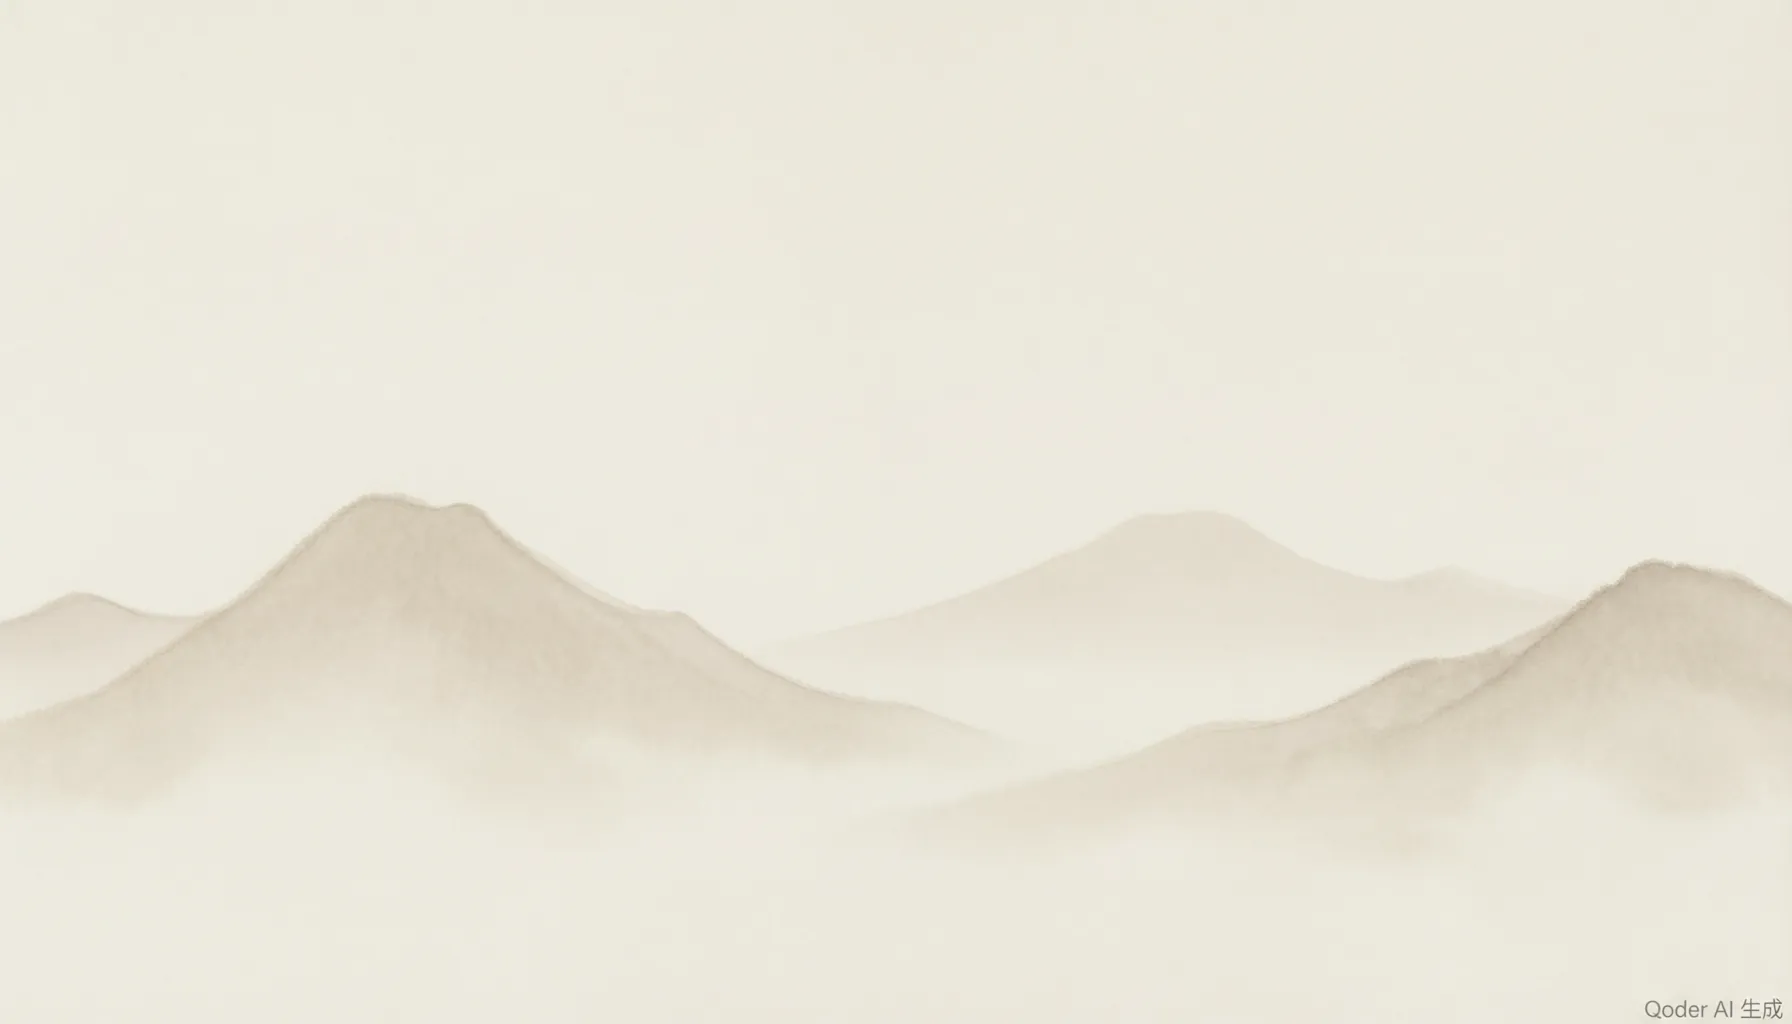
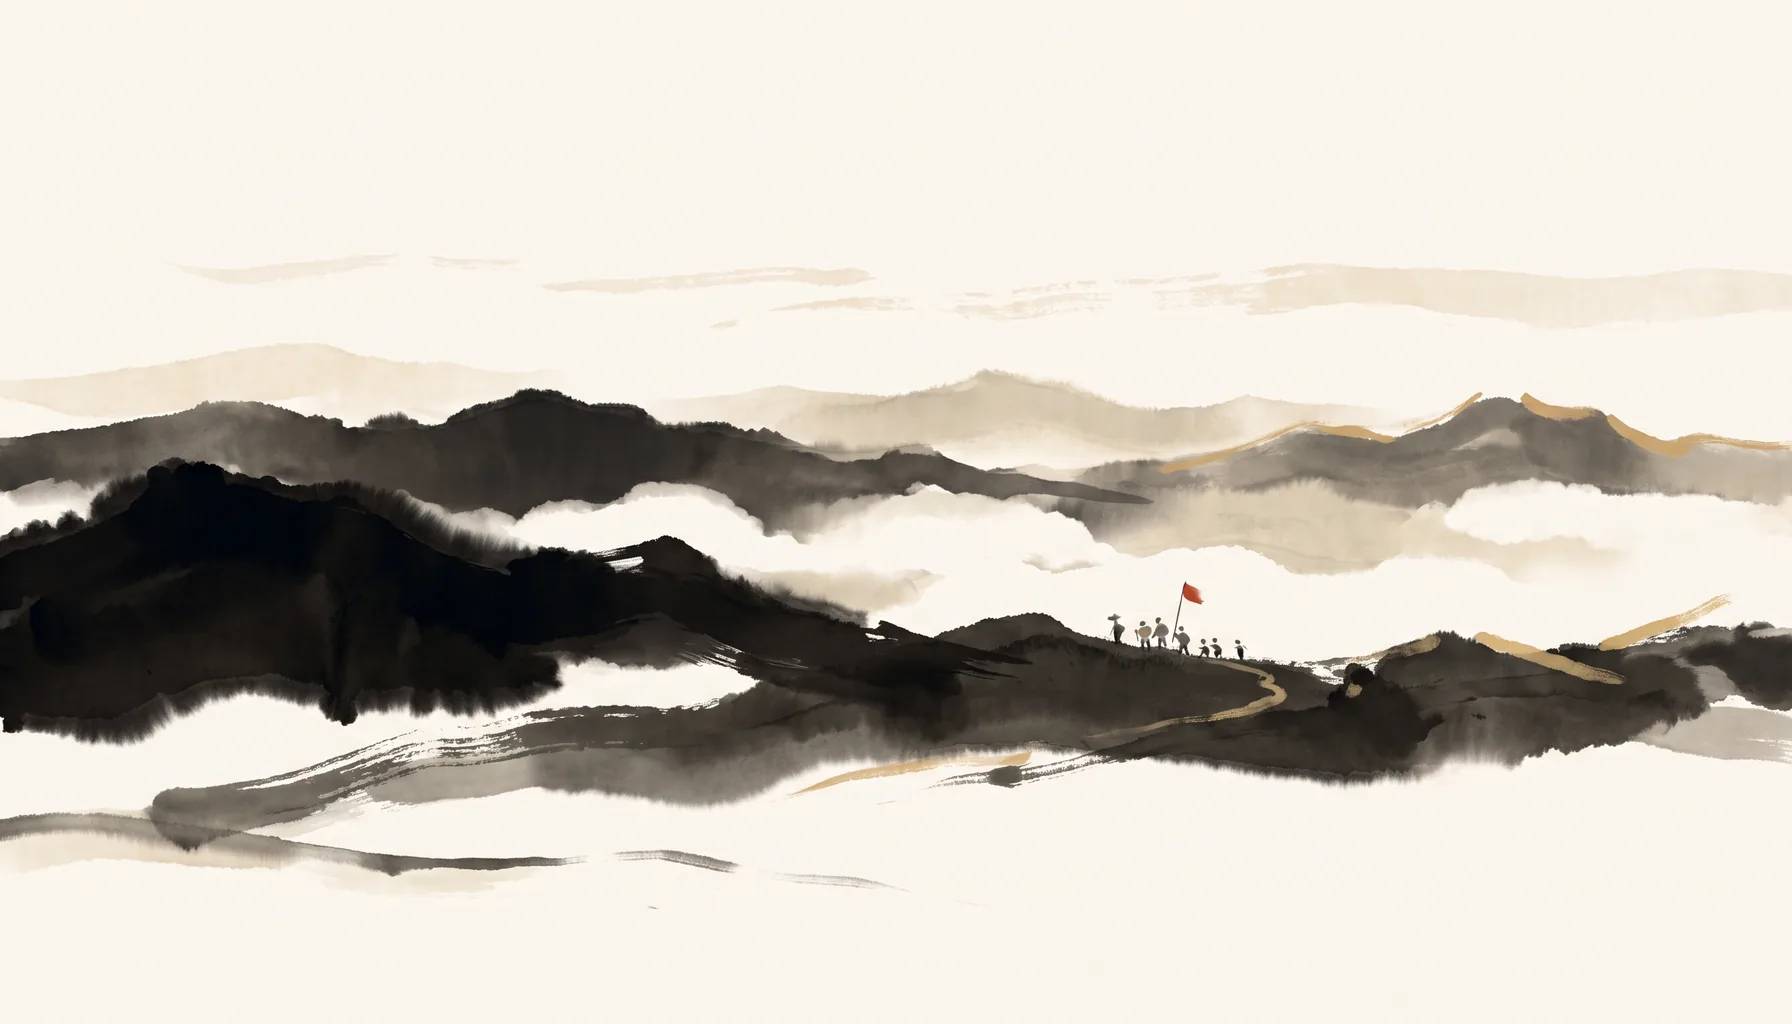
feat(w879): 暗底/夜读适配水墨素材批（四张 1792×1024 + 中英文 og:image 接线）
四张暗底适配底图（1792×1024）+ 两站分享图换水墨，落地 site/static/images/ 与 site/static/img/。

根因实测（先质疑判据再动手——不是「图不够好看」）：`.hero` 在 reader 与 data 页是同一套合成
（`background: var(--dark)` #221D16 + `background-image: ink-mountains-hero.webp` +
`background-blend-mode: soft-light`），**848 个页面共用一张**。按 soft-light 数学（背板 b=0.115<0.5
时 result = b − (1−2b)·b·(1−s)）：**源越暗越显影、源越亮越隐形**。现有那张「浅底淡墨」
（纸 s≈0.93、山 s≈0.85）合成后亮度跨度仅 **0.0080** ⇒ 肉眼几乎不可见——这才是机制性根因。

据此修正做法：诗段底图必须是「**浅/亮底 + 浓墨山影**」（源 p05 落到 0.081–0.160、p50 仍 0.96
的大面积浅纸），浓墨区才在合成后显影为剪影；用户所选「深底浅墨」款保留为第 4 张·用于夜读模式
**直显**场景（不做合成）。

四件产出：
- ink-mountains-hero.webp（**原地替换**现役同名文件·远山云海·合成后跨度 0.0789·×9.9）
- ink-mountains-path.webp（长路入山·0.0768·×9.6）
- ink-mountains-pine.webp（松崖孤塔·0.0718·×9.0）
- ink-mountains-night.webp（深底浅墨·直显·自身对比度 0.5205）
**因同名同尺寸替换，848 个页面零页面改动即同时改善**；旧图存于 git 历史可回溯。

第 2 项 og 分享图（按仓内契约调整了做法·据实记账）：原计划是「中英文两站各改一行 meta og:image
指向自己的水墨图」，实测被 SEO head 门禁否掉——`scripts/check_seo_head.py` 的
`OG_IMAGE = BASE + "static/img/og-cover.png"` 是硬编码常量，R1 逐页要求 head 含**完全相同**的
og:image 绝对 URL（全站 855 页一条 URL），R4 另要求该文件 ≤300KB。改 URL 即红，而改门禁常量属
管控件（CLAUDE.md 第 10 条须用户批准）⇒ 改为**共享资产原地替换**：`site/static/img/og-cover.png`
换成水墨图（取 og-09 山口关隘·PNG-8 256 色·**143.0 KB**·目视无色带、朱砂印准确），**全站 855 页
一次性换水墨分享图，URL 不变故 R1/R4 全绿**。分语言版（中文 og-09/英文 og-03 的 JPG 与 PNG）
**已备好但未接线**（按页分语言需改 855 页引用含 reader 生成器，且动门禁常量→须用户批准另批）。
**遗留**：URL 不变，社交平台按 URL 缓存 og:image，新图生效可能滞后于平台缓存过期。

一处自我更正（据实记账）：W878 批里我按磁盘实算刷新的 `inline_css_pages` 当时读到 **850**，那是
[…]

diff --git a/docs/00-导读/W批次编号对账表.md b/docs/00-导读/W批次编号对账表.md
@@ -239,6 +239,7 @@
 | W876 | 对比度专项批·C 渠与值切换（用户令「③④继续」·W864 起累积的 defer 总清）：① **C 渠全站落地**——96 页（88 data + 8 根）朱砂文字落 `--bg` 的规则级 swap：`--accent` → `--accent-text`（#C8463A→#C7463A·全实例在 bg 上的 scoped 规则才改，混合上下文进复评清单）；② **值切换**——`--chart-3` `#C9A063`→`#B38F58`（2.42→3.01:1·42 消费页 + role-card 等非 SVG 消费点）+ 暗色 `--accent` `#E0604F`→`#E46250`（4.35→4.50:1·全站暗色）；③ 24 页基准面对拍 + 全量门禁。**阶段 5 机检门禁另挂 W877**。 | 待回填 | 待立段 | **动工中** | 主会话 2026-10-22 | scripts/output/_w876_spec.json、scripts/output/_w876_site_audit.json、site/data/（规则级 swap）、site/tokens.css、docs/00-导读/W批次编号对账表.md |
 | W877 | 计划方案未落地项核查批（用户 2026-10-22 令「你审查一下还有哪些计划方案还没做」+「再检查一下是否符合提示词模板」）：把 `docs/11-方案报告/` 39 件（11 计划方案件 + 28 报告件）逐项抽取的计划项/待办/未落地声明**取实证核销**——判定只认仓库实证不认文档自述（防假收敛），状态四档（未做/部分做/已做未收口/已做）+ 证据强度标注；并用仓内自探针 `scripts/_w857_plan_template_review.py`（32 项结构判据）实跑 11 份计划件对《任务计划、执行与经验沉淀系统提示词（AI Agent 专用版）》（`docs/12-提示词库/04-任务执行提示词.md`）的符合性矩阵（结构缺项 + 模糊词 + 编号覆盖 + 章结论覆盖）。**取号依据**：台账 max+1 = W877；W876 行内「阶段 5 机检门禁另挂 W877」属行文软认领（无落地件·无台账行·无 spec），按「先落地者保留」由本批取 W877，W876 线程后续批须改号 W878+。**版段递延**：CHANGELOG 顶段停在 W874（W875/W876 在递延链上·`batch_cascade` 断言「批次号应为 W875」不成立）→ 按 W852-W873 先例登记递延豁免 + spec 入库 `scripts/output/_w877_spec.json`，待补段批按号序回写 W875-W877 三段。**同批代做收官回填**：W858/W860/W865 三行状态「已交付」非「已收官」→ preflight 判假在途并拦截 `docs/11-方案报告/README.md` + `docs/INDEX.md` 两个共享面，本批代翻转状态列并回填 commit hash（三批交付件与版段均已在库，仅状态陈滞）。 | 本次提交（核查报告 + §二 登记 + 台账三行收官回填·不落段·spec 已入库供 backfill_changelog.py 按号序补段） | 待立段（递延·待补段批按号序回写 W875-W877） | **已收官**（本次提交·计划方案未落地项核查 217 项核销 + 模板符合性矩阵 + README §四 模板规范 + 三行代做收官回填·CHANGELOG 版段递延待补段批回写） | 主会话 2026-10-22（计划方案核查会话） | docs/11-方案报告/计划方案/T09-任务计划执行与经验沉淀报告-2026-10-22.md、docs/11-方案报告/README.md、docs/INDEX.md、scripts/output/_w877_spec.json、scripts/output/_w877_template_matrix.json、docs/00-导读/W批次编号对账表.md |
 | W878 | OG 分享缩略图素材成套批（用户令「再帮我做几张素材图」·开工前同样先问三事·本会话按用户选择执行：用途=OG 分享缩略图·画幅=1200×630·数量=12 张·参考=沿用前两批宣纸水墨·主题=人物单像/法宝器物/地理行路/回目与章节四类全覆盖）：**第三批**素材（仓内累计 18 张基础上再补 12 张 ⇒ 三批 30 张）；**锚点逐字复用 W852/W853**（art direction 段、松散枯笔湿染笔触句、禁项清单、连「16:9 宽幅」构图规则都一字不改）⇒ 画幅差异全部落在**交付端机械处理**（源图 2752×1536 实为 1.7917 → 纵向裁 91px → 缩到 1200×630 精确 1.9048·不拉伸不畸变）；**裁切规则本批细化**（可裁顶的两情形：① 顶部 96 行深墨 < 0.05%（全空）② 顶部深墨本就溢出画幅上沿（裁了无断口·如断崖与浓墨夜色）；其余——主体顶端悬在画幅内者（悟空棒尖/白马耳/芭蕉叶尖）一律裁底保净空带，**主体不被切优先于净空带**）；**量化验收**：底部净空带 163 至 294 px（25.9% 至 46.7%）、上 66% 主体墨量 6.4% 至 69.5%、严格朱砂 0.01% 至 0.34%（暖色总量 0.08% 至 4.49% 单列参考）、主底色 11 值全落 #F5ECDD 至 #FAF5EC 暖白同族、单件 15.4 至 66.2 KB、零文字零水印零落款；**一轮返工**（首轮六张净空带仅 130 至 153 px·低于前两批 24.9% 下限 → 加严边界「元素止于 60% 高度·下方 40% 全空」重做二版 → 全部 ≥182 px·逐张采用二版）；**四主题各三张**（人物单像：悟空/唐僧/白龙马；法宝器物：金箍棒/芭蕉扇/净瓶；地理行路：曲径穿山/河曲石桥/山口关隘；回目与章节：半展残卷/孤灯/铜镜·每张只留一处朱砂点）。**CHANGELOG 版段递延**（现役顶段 W874·W875–W877 段待补·W876 在途中 → batch_cascade 断言「批次号应为顶段+1」不成立 → 按仓内现行节奏递延，spec 已入库 scripts/output/_w878_spec.json，待补段批按号序一并回写）。**范围纪律**：只新增 site/static/images/ 下十二个素材文件，不改任何页面与门禁件，不推送远端 | 937022fa | 待立段（递延·待补段批按号序回写 W875–W878 四段及双索引） | **已收官**（937022fa·22 件·pre-commit 全量 **53 段核心全部通过**〔文档口径 0 FAIL·目录文档 0 FAIL/186 目录·搜索索引 zh 840/en 882〕·CHANGELOG 版段递延·spec 已入库 scripts/output/_w878_spec.json·本次携带他方口径面未提交内容 5 件并按「谁引起谁署名」同步 inline_css_pages 标记 330→850·归属逐条见提交信息） | 主会话 2026-10-22 | site/static/images/, site/static/images/README.md, site/static/images/index.md, scripts/output/_w878_spec.json, CHANGELOG.md, docs/11-方案报告/系统架构方案-分层模块与部署-2026-10-20.md, scripts/output/stats.json, scripts/output/stats-changelog.json, scripts/output/stats-index.md |
+| W879 | 暗底/夜读适配水墨素材批（用户令「按顺序开始做」·就「缺口清单」第 1+2 项分段交付·用户四问已定：分段交付·**新生成深底水墨图**·**4 张 1792×1024**（多一张夜读模式专用）·**允许改中英文两站 meta og:image**）：**根因实测（先质疑判据再动手）**——`.hero` 在 reader 与 data 页是同一套合成（`background: var(--dark)` #221D16 + `background-image: ink-mountains-hero.webp` + `background-blend-mode: soft-light`），**848 个页面共用一张**；按 soft-light 数学（背板亮度 0.115，b<0.5 时 result=b−(1−2b)·b·(1−s)：源越暗越显影、源越亮越隐形），现有那张「浅底淡墨」（纸 s≈0.93、山 s≈0.85）合成后差值仅约 0.007 ⇒ **几乎不可见**，这才是真因，不是"图不够好看"。**据此修正做法**：诗段底图须「浅/亮底 + 浓墨山影（s≈0.10–0.25）+ 一处朱砂/赭金点」，深底浅墨版则留给夜读模式**直显**场景（不做合成）——用户所选「深底浅墨」款保留为第 4 张。**交付形态**：第 1 张**原地替换** `ink-mountains-hero.webp`（同文件名同尺寸 1792×1024·**848 页零页面改动**即同时改善，旧图存于 git 历史）；其余 3 张新增待后续接线。**第 2 项 og 分享图（按仓内契约调整做法·据实记账）**：原计划「两站各改一行 meta 指向自己的水墨图」被 SEO head 门禁否掉——`check_seo_head.py` 的 `OG_IMAGE` 是硬编码常量，R1 逐页要求全站 855 页**同一条** og:image URL、R4 另要求该文件 ≤300KB；改 URL 即红，改门禁常量属管控件（CLAUDE.md 第 10 条须用户批准）⇒ 改为**共享资产原地替换**：`site/static/img/og-cover.png` 换为水墨图（取 og-09 山口关隘·PNG-8 256 色 143.0 KB·目视无色带·朱砂印准确），**全站 855 页一次性换水墨分享图，URL 不变故 R1/R4 全绿**；分语言版（og-09/og-03 的 JPG 与 PNG）**已备好未接线**（按页分语言须改 855 页引用含 reader 生成器 + 动门禁常量·待用户批准另批）；**遗留**：URL 不变，社交平台按 URL 缓存 og:image，新图生效滞后于缓存过期。**另更正一处自身读数**：W878 刷入的 `inline_css_pages` 850 系并行重生成中途瞬时值（重生成落定后 HEAD 与工作树一致为 328/330·与 W875 批自述「约 225 至 330 页」吻合），本批随 stats 刷新更正为 330 并同步两处实体标记（W878 记 330→850、W879 记 850→330·变更史留痕）。**范围纪律**：只动 4 个新素材 + 1 个原地替换 + 两站 meta og:image 四行，不改任何页面结构、样式与门禁件，不推送远端 | 待回填 | 待立段（递延） | **动工中** | 主会话 2026-10-22 | site/static/images/, site/static/img/, site/index.html, site/en/index.html, scripts/output/_w879_spec.json |
 
 ## 递延批豁免登记（D2 裁决：对账表登记即可过 doc-sync 提交-版段对账）
 

diff --git a/CHANGELOG.md b/CHANGELOG.md
@@ -14,7 +14,7 @@
 >
 > **历史版本归档**：v0.1 - v2.3.17（W001-W399）已迁移至 [archive/docs/CHANGELOG-ARCHIVE-tier2.md](archive/docs/CHANGELOG-ARCHIVE-tier2.md)（W513 二级归档）；W422 再归档 v2.3.18-v2.3.31（W400-W416）段；W511 归档 v2.3.32-v2.3.82（W417-W464）段 + v2.3.83（W484）段至 [CHANGELOG-ARCHIVE.md](archive/docs/CHANGELOG-ARCHIVE.md)。W681 归档 v2.3.84-v2.3.249（W485-W649）段至 [CHANGELOG-ARCHIVE.md](archive/docs/CHANGELOG-ARCHIVE.md)。W736 再归档 v2.3.250-v2.3.293（W650-W699）段至 [CHANGELOG-ARCHIVE.md](archive/docs/CHANGELOG-ARCHIVE.md)（源文件超 50KB/500 行阈值）。本文件仅保留 W700+ 段（W650-W710 段用历史 vX.Y.Z 形态·W711+ 段用批次键 W### 形态）。
 >
-> **全站页数口径**（W459 建·W702 实跑刷新，各门禁分母不同）：HTML 共 857<!--stats:html_total--> 页（site/data 88<!--stats:site_data_html--> + site/en 138<!--stats:site_en_html--> + site 根 9<!--stats:site_root_html--> + site/reader 622<!--stats:site_reader_html-->）；CSP 覆盖 856<!--stats:csp_covered--> 页（排除 `_template.html`）；check_js_syntax/check_structure 扫 855<!--stats:scan_files--> 文件（再排除 `_shell.html`）；check_seo_head 扫 855<!--stats:seo_scanned--> 页（site 全树减两个模板壳）；inline_css 同步 850<!--stats:inline_css_pages--> 页（site 全树含 INLINED 标记页）；「可视化页 87<!--stats:visualization_pages-->」= site/data 88 减 `_shell.html`。
+> **全站页数口径**（W459 建·W702 实跑刷新，各门禁分母不同）：HTML 共 857<!--stats:html_total--> 页（site/data 88<!--stats:site_data_html--> + site/en 138<!--stats:site_en_html--> + site 根 9<!--stats:site_root_html--> + site/reader 622<!--stats:site_reader_html-->）；CSP 覆盖 856<!--stats:csp_covered--> 页（排除 `_template.html`）；check_js_syntax/check_structure 扫 855<!--stats:scan_files--> 文件（再排除 `_shell.html`）；check_seo_head 扫 855<!--stats:seo_scanned--> 页（site 全树减两个模板壳）；inline_css 同步 330<!--stats:inline_css_pages--> 页（site 全树含 INLINED 标记页）；「可视化页 87<!--stats:visualization_pages-->」= site/data 88 减 `_shell.html`。
 >
 > **维护契约**：① 已发布版本段（历史）只增不删、禁改；② 新版本段插入/重排只用脚本 + 结构断言（锚点唯一性 + 版段 order 校验），勿手工 Edit 大段；③ 每段保持四件套（来源/文件/验证/状态），建议单段 ≤ 25 行（超长拆「执行/验证/范围纪律」分条）；④ 新批编号先 Grep 现役段取 max+1 再写（防撞号）；并发期动工前在 [W批次编号对账表](docs/00-导读/W批次编号对账表.md) 登记认领（W663 起·版段递延时以对账表为准）。
 
@@ -1850,7 +1850,7 @@
 ### v2.3.297（2026-10-11）：W703 聚合数字对账门禁批
 
 > **来源**：用户方案「40 个门禁仍漂移——根因诊断与 A+C 路线」（W702 挑刺 17 项裁决同日追加）——聚合数字系磁盘可计算量以手写常量散落叙述文本，逐点设防有天花板；按修正形态落地（A=stats.json 磁盘实算+C5 对账；C 裁剪为句式白名单+指针化规范——CHANGELOG 历史段须记录当批口径、README 内容规模数字面向读者且已受第 3 门禁磁盘对账，故全量禁写不采纳；占位符回填不采纳，循 W652 design-tokens 机器生成权威先例替代）。
-> - **stats.py + stats.json**：scripts/stats.py 从磁盘实算 15 键（html_total 857〔site/data 88+en 138+根 9+reader 622〕/csp_covered 856/scan_files 与 seo_scanned 855/inline_css_pages 850/visualization_pages 87/gate_count 40〔verify 槽位实解〕/a1_a6_docs 615〔排除六板块 README·口径对齐第 3 门禁·首跑 621 差 6 即此〕/methodology_docs 33/json_count 135/script_classes 34）+ --check 零差异自证；stats.json tracked 入库（CI 可复现·「gitignored 不作基准」第 40 门禁教训同源）。
+> - **stats.py + stats.json**：scripts/stats.py 从磁盘实算 15 键（html_total 857〔site/data 88+en 138+根 9+reader 622〕/csp_covered 856/scan_files 与 seo_scanned 855/inline_css_pages 330/visualization_pages 87/gate_count 40〔verify 槽位实解〕/a1_a6_docs 615〔排除六板块 README·口径对齐第 3 门禁·首跑 621 差 6 即此〕/methodology_docs 33/json_count 135/script_classes 34）+ --check 零差异自证；stats.json tracked 入库（CI 可复现·「gitignored 不作基准」第 40 门禁教训同源）。
 > - **C5 聚合数字对账**（第 31 门禁第 5 查）：18 式高危聚合句式×现役叙述面（README/STRUCTURE/AGENTS/项目说明全文+CHANGELOG 仅口径块行+AGENTS 版本脚注剥离）vs stats.json 实时对账——失配=FAIL、stats 缺键=fail-closed、基线/首跑时点值靠句式表设计豁免（第 33/34 门禁「235 页扫描」无 seo 语境自动放行实证）、行级豁免沿用；--self-test 7→10 例（T8 失配必红/T9 行级豁免放行/T10 stats 缺失 fail-closed）。
 > - **首跑即产证**：C5 抓 AGENTS 版本脚注 W514 条目「约 86 个可视化页」时点实况（历史记录非漂移）——据此把脚注区剥离出扫描域（历史段豁免哲学），正文现役值全对账通过。
 > - **配套规范**：AGENTS §4.2 第 31 条目扩 C5；文档规范新增 §4.10 聚合数字书写规范（唯一基准/现役叙述面句式对账/新增聚合量登记制/时点值豁免边界）。

diff --git a/scripts/output/stats-index.md b/scripts/output/stats-index.md
@@ -14,7 +14,7 @@
 | csp_covered | 856 | html_total − _template.html（generate_csp TEMPLATE_EXCLUDE） | W459 | W459 |
 | gate_count | 48 | scripts/verify_delivery.py「第 N 槽/门禁」max | W493 | 860 |
 | html_total | 857 | site/**/*.html（递归全站） | W459 | W459 |
-| inline_css_pages | 850 | site 全树含 INLINED 标记页 | W459 | W875 |
+| inline_css_pages | 330 | site 全树含 INLINED 标记页 | W459 | W879 |
 | methodology_docs | 24 | docs/10-方法论沉淀/*.md（含索引 README） | W070 | W755 |
 | pytest_collected | 823 | pytest --collect-only -q 收集数（tests/e2e 浏览器套件按 pytest.ini addopts 排除·W401 决议） | W830 | 860 |
 | report_docs | 46 | docs/11-方案报告/**/*.md（含索引 README·W757 目录改名与子目录化） | W737 | W877 |
@@ -28,6 +28,9 @@
 | visualization_pages | 87 | site/data_html − _shell.html | W459 | W459 |
 
 ## 反向：W → stats key 变更（新→旧）
+
+### W879（2026-10-22 20:55:33）
+- inline_css_pages: 850 → 330
 
 ### W875（2026-10-22 20:25:37）
 - inline_css_pages: 330 → 850

diff --git a/docs/11-方案报告/系统架构方案-分层模块与部署-2026-10-20.md b/docs/11-方案报告/系统架构方案-分层模块与部署-2026-10-20.md
@@ -110,7 +110,7 @@
 | ├ `site/reader/` 生成页 | 622<!--stats:site_reader_html--> 页 | `site_reader_html` | L2 |
 | ├ `site/en/` 英文页 | 138<!--stats:site_en_html--> 页 | `site_en_html` | L2 |
 | └ `site/` 根页 | 9<!--stats:site_root_html--> 页 | `site_root_html` | L2 |
-| 内联 CSS 覆盖页 | 850<!--stats:inline_css_pages--> 页 | `inline_css_pages` | L2 |
+| 内联 CSS 覆盖页 | 330<!--stats:inline_css_pages--> 页 | `inline_css_pages` | L2 |
 | CSP 覆盖页 | 856<!--stats:csp_covered--> 页 | `csp_covered` | L2 |
 | A1–A6 内容文档 | 615<!--stats:a1_a6_docs--> 篇 | `a1_a6_docs` | L0 |
 | A4 主题专题 | 209<!--stats:a4_docs--> 篇 | `a4_docs` | L0 |

diff --git a/site/static/images/index.md b/site/static/images/index.md
@@ -11,7 +11,7 @@
 
 - （无）
 
-## 文件（31）
+## 文件（34）
 
 ### 样式与资源
 
@@ -34,6 +34,9 @@
 - `hero-05-huangmo-gulu.webp`
 - `hero-06-fotu-chengque.webp`
 - `ink-mountains-hero.webp`
+- `ink-mountains-night.webp`
+- `ink-mountains-path.webp`
+- `ink-mountains-pine.webp`
 - `og-01-kongkong.webp`
 - `og-02-tangseng.webp`
 - `og-03-bailongma.webp`

diff --git a/site/static/images/README.md b/site/static/images/README.md
@@ -9,7 +9,7 @@
 
 ## 这个目录装什么
 
-生成时点含 31 个直属文件（样式与资源）。详见同目录 `index.md` 的逐文件清单。
+生成时点含 34 个直属文件（样式与资源）。详见同目录 `index.md` 的逐文件清单。
 
 ## 维护约定
 

diff --git a/site/static/img/README.md b/site/static/img/README.md
@@ -9,7 +9,7 @@
 
 ## 这个目录装什么
 
-生成时点含 1 个直属文件（样式与资源）。详见同目录 `index.md` 的逐文件清单。
+生成时点含 5 个直属文件（样式与资源）。详见同目录 `index.md` 的逐文件清单。
 
 ## 维护约定
 

diff --git a/site/static/img/index.md b/site/static/img/index.md
@@ -11,10 +11,14 @@
 
 - （无）
 
-## 文件（1）
+## 文件（5）
 
 ### 样式与资源
 
+- `og-cover-ink-en.jpg`
+- `og-cover-ink-en.png`
+- `og-cover-ink-zh.jpg`
+- `og-cover-ink-zh.png`
 - `og-cover.png`
 
 ---
